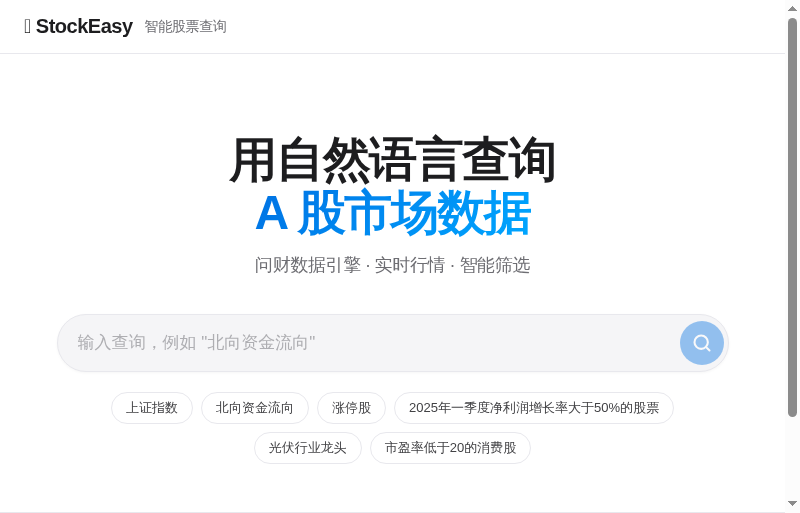
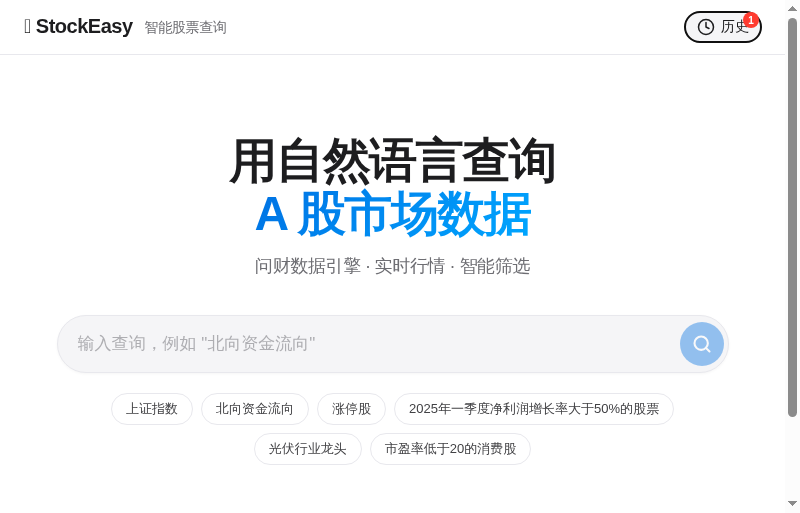
Update README with history feature & new screenshots
- Updated README: added SQLite history docs, new screenshots
- Added history_panel.png showing the slide-in history panel
- Updated landing.png and results.png with current UI
- Added data/ directory info to project structure

diff --git a/README.md b/README.md
@@ -14,6 +14,7 @@ stockeasy/
 │   ├── src/
 │   │   ├── index.ts              # Express 后端服务入口
 │   │   ├── wencai.ts             # 问财 API 纯 TypeScript 实现 ✨
+│   │   ├── database.ts           # SQLite 查询历史存储 (sql.js)
 │   │   └── hexin-v.bundle.js     # 同花顺令牌生成器 (自包含)
 │   └── package.json
 ├── client/
@@ -21,9 +22,9 @@ stockeasy/
 │   │   ├── App.tsx               # React 主界面 (苹果设计风格)
 │   │   └── App.css
 │   ├── index.html
-│   ├── package.json
-│   ├── tsconfig.json
-│   └── vite.config.ts
+│   └── package.json
+├── data/                         # SQLite 数据库文件 (运行后自动生成)
+├── screenshots/                  # 截图
 └── README.md
 ```
 
@@ -39,6 +40,18 @@ stockeasy/
 | **Step 1** | `POST get-robot-data` — 获取查询条件和 URL 参数 |
 | **Step 2** | `POST getDataList / find` — 拉取实际数据，支持分页 |
 | **结果解析** | 多组件类型处理 (container/tab1/tab4/common 等) |
+
+### SQLite 查询历史 (`server/src/database.ts`)
+
+基于 **sql.js**（纯 JavaScript SQLite 实现，无需 C++ 编译），提供完整的查询历史管理：
+
+| 功能 | API 端点 | 说明 |
+|------|----------|------|
+| **自动记录** | — | 每次查询自动记录（成功/失败），含耗时、结果条数 |
+| **分页查询** | `GET /api/history?page=1&pageSize=20` | 按时间倒序排列 |
+| **删除单条** | `DELETE /api/history/:id` | 移除指定记录 |
+| **清空全部** | `DELETE /api/history` | 重置历史 |
+| **磁盘持久化** | — | 内存 ↔ 磁盘双向同步，每隔 30s 自动保存，退出时保证写入 |
 
 ---
 
@@ -59,9 +72,9 @@ npx tsx src/wencai.ts "涨停股" --limit 5 > result.json
 
 ## 🌐 Web UI 预览
 
-| 首页 | 查询结果 |
-|:---:|:---:|
-| ![首页](screenshots/landing.png) | ![结果](screenshots/results.png) |
+| 首页 | 查询结果 | 历史面板 |
+|:---:|:---:|:---:|
+| ![首页](screenshots/landing.png) | ![结果](screenshots/results.png) | ![历史](screenshots/history_panel.png) |
 
 ### 一键启动
 
@@ -96,6 +109,7 @@ cd client && npm run dev  # → http://localhost:5173
 - **苹果设计风格** — SF 字体、毛玻璃导航、圆角搜索栏、柔和阴影
 - **快捷搜索建议** — 一键点击热门查询
 - **智能表格展示** — 自动识别数值列、对齐格式化
+- **查询历史** — 自动保存、侧滑面板浏览、点击重新查询、单条/批量删除
 - **响应式布局** — 桌面和移动端均适配
 - **实时查询** — 纯 TypeScript 引擎，毫秒级响应
 
@@ -109,6 +123,7 @@ cd client && npm run dev  # → http://localhost:5173
 | 运行时 | tsx (TypeScript 直接执行) |
 | 数据引擎 | **纯 TypeScript 实现**（替代 pywencai） |
 | 反爬令牌 | hexin-v (同花顺签名, 自包含 JS bundle) |
+| 历史存储 | SQLite via sql.js (纯 JS，无需 C++ 编译) |
 | 设计风格 | Apple SF Pro 风格 |
 
 ## 🚀 快速上手
